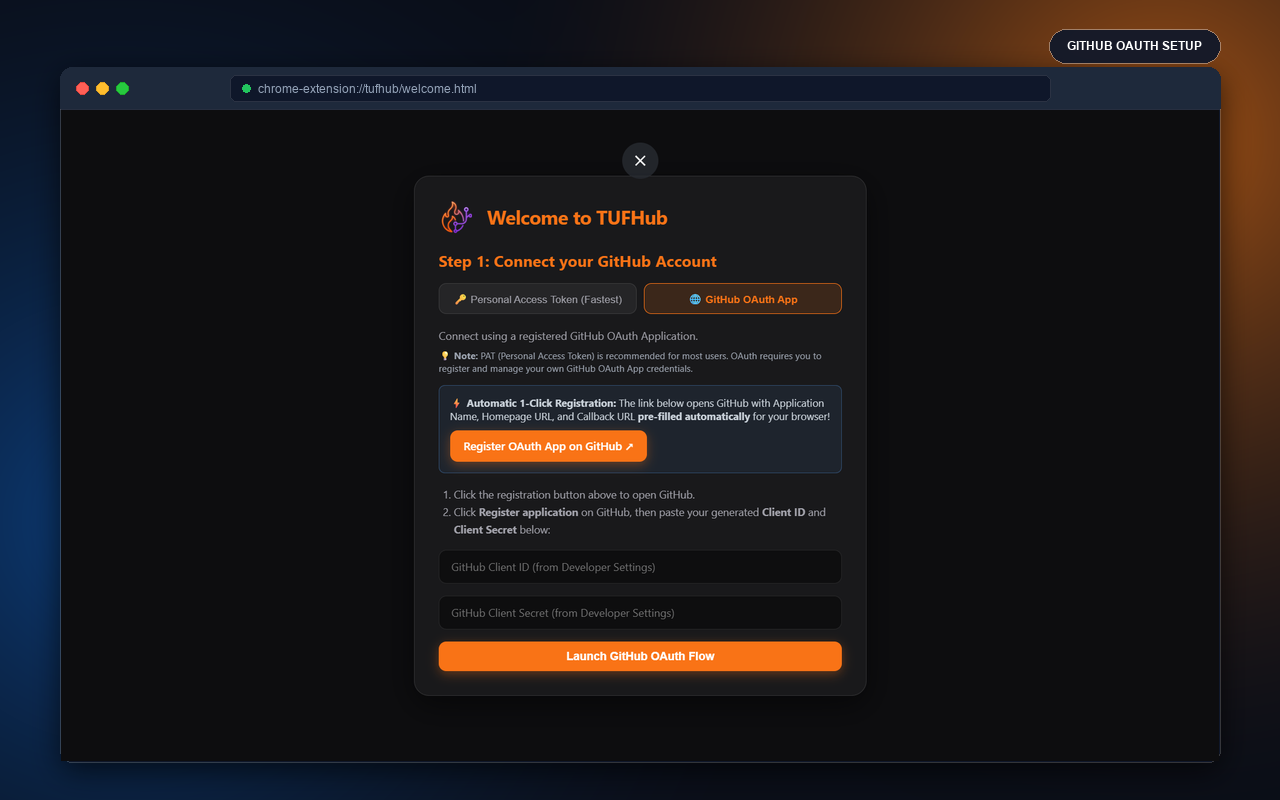
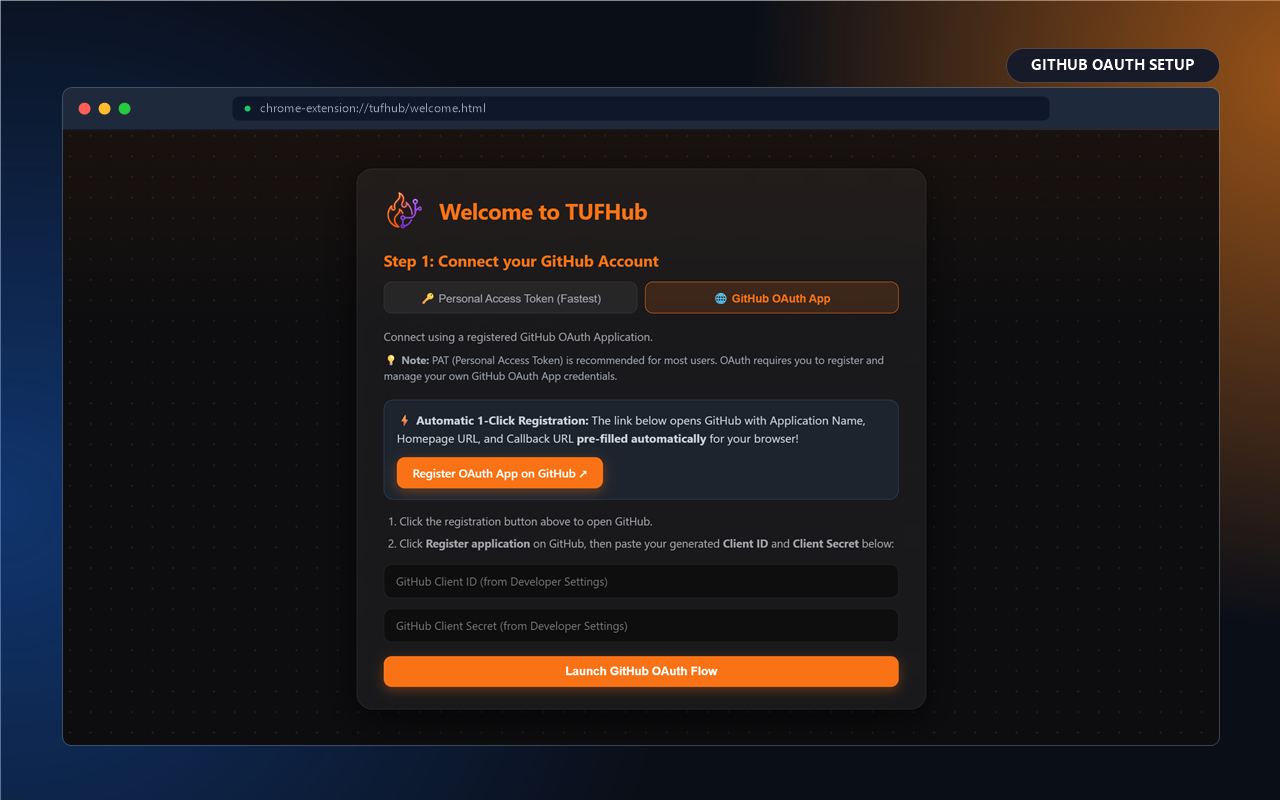
fix(assets): recapture stale store and website screenshots after TUF site revamp
card_01, card_04, card_05, card_06, and hero_preview showed the
pre-revamp takeuforward.org UI or a missing onboarding dot-grid
background. Recaptured from the live site and composited to match
the existing gradient-card design system.

diff --git a/docs/index.html b/docs/index.html
@@ -1086,7 +1086,7 @@
       <div class="hero-preview">
         <picture>
           <source srcset="assets/hero_preview.webp" type="image/webp">
-          <img src="assets/hero_preview.png" width="960" height="499" alt="TUFHub Extension Dashboard Preview" loading="eager" fetchpriority="high" decoding="sync">
+          <img src="assets/hero_preview.png" width="960" height="574" alt="TUFHub Extension Dashboard Preview" loading="eager" fetchpriority="high" decoding="sync">
         </picture>
       </div>
     </div>
